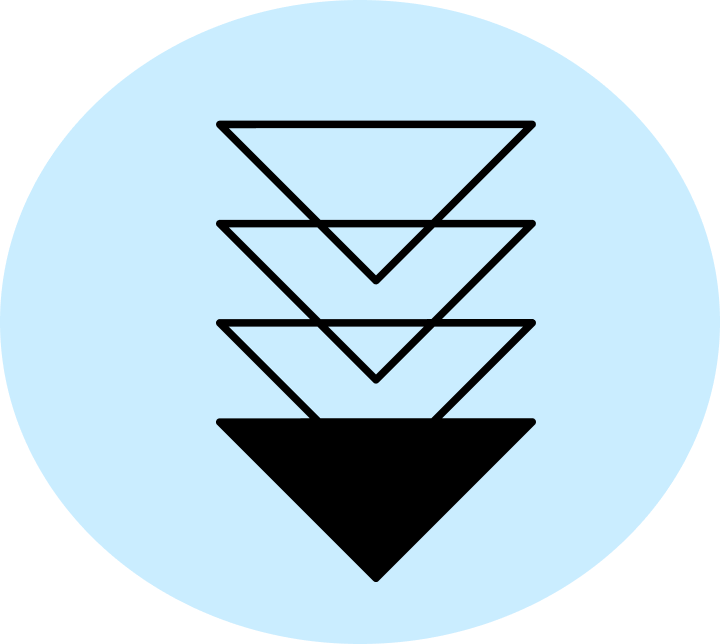
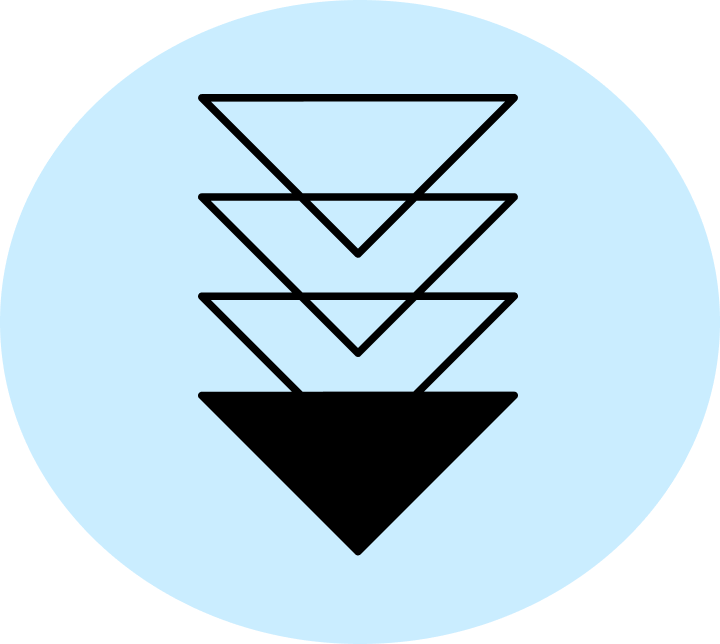
Edited skills section

Changed region(s): [[0.275, 0.1242, 0.7639, 0.9006]]

diff --git a/index.html b/index.html
@@ -93,24 +93,24 @@
       </div>
     </div>
     <div class="skills-section">
-      <div class="section-header text-center">
-        <h3 class="m-5">How can I help you?</h3>
-      </div>
-      <div class="skills-selections d-flex justify-content-evenly">
+        <h3 class="skills-title text-center">How can I help you?</h3>
+      <div class="skills-selections mt-5 mb-5 d-flex justify-content-evenly">
         <div class="web-dev-select">
+          <a href="">
           <img
             src="/images/web-dev-icon.png"
             alt=""
             class="skills-img img-fluid"
           />
+          </a>
           <div class="web-dev text-center">
-            <p>Web Development</p>
+            <p class="skill">Web Dev</p>
           </div>
         </div>
         <div class="ux-design-select">
           <img src="/images/ux-icon.png" alt="" class="skills-img img-fluid" />
           <div class="ux-design text-center">
-            <p>UX Design</p>
+            <p class="skill">UX Design</p>
           </div>
         </div>
         <div class="marketing-select">
@@ -120,7 +120,7 @@
             class="skills-img img-fluid"
           />
           <div class="digital-marketing text-center">
-            <p>Digital Marketing</p>
+            <p class="skill">Digital Marketing</p>
           </div>
         </div>
       </div>

diff --git a/styles/portfolio.css b/styles/portfolio.css
@@ -1,7 +1,7 @@
 :root {
   --branding-color: #cfc647ef;
   --secondary-color: black;
-  --background-color: #ffffff;
+  --background-color: #fef6ec;
   --heading-font-family: "Syne", sans-serif;
   --default-font-family: "Montserrat", sans-serif;
 }
@@ -107,10 +107,24 @@ a.nav-link{
 }
 .skills-section {
   background-color: var(--branding-color);
+  padding: 30px 0;
+}
+.skills-title{
+  margin-bottom: 60px;
+}
+.skills-selections{
+  padding-top: 50px;
 }
 img.skills-img.img-fluid {
-  width: 180px;
-  height: 161px;
+  width: 280px;
+  height: 261px;
+}
+p.skill{
+  font-family: var(--heading-font-family);
+  padding-top: 60px;
+  font-size: 34px;
+  font-weight: 500;
+  text-align: center;
 }
 .lower-section {
   margin-top: 50px;
